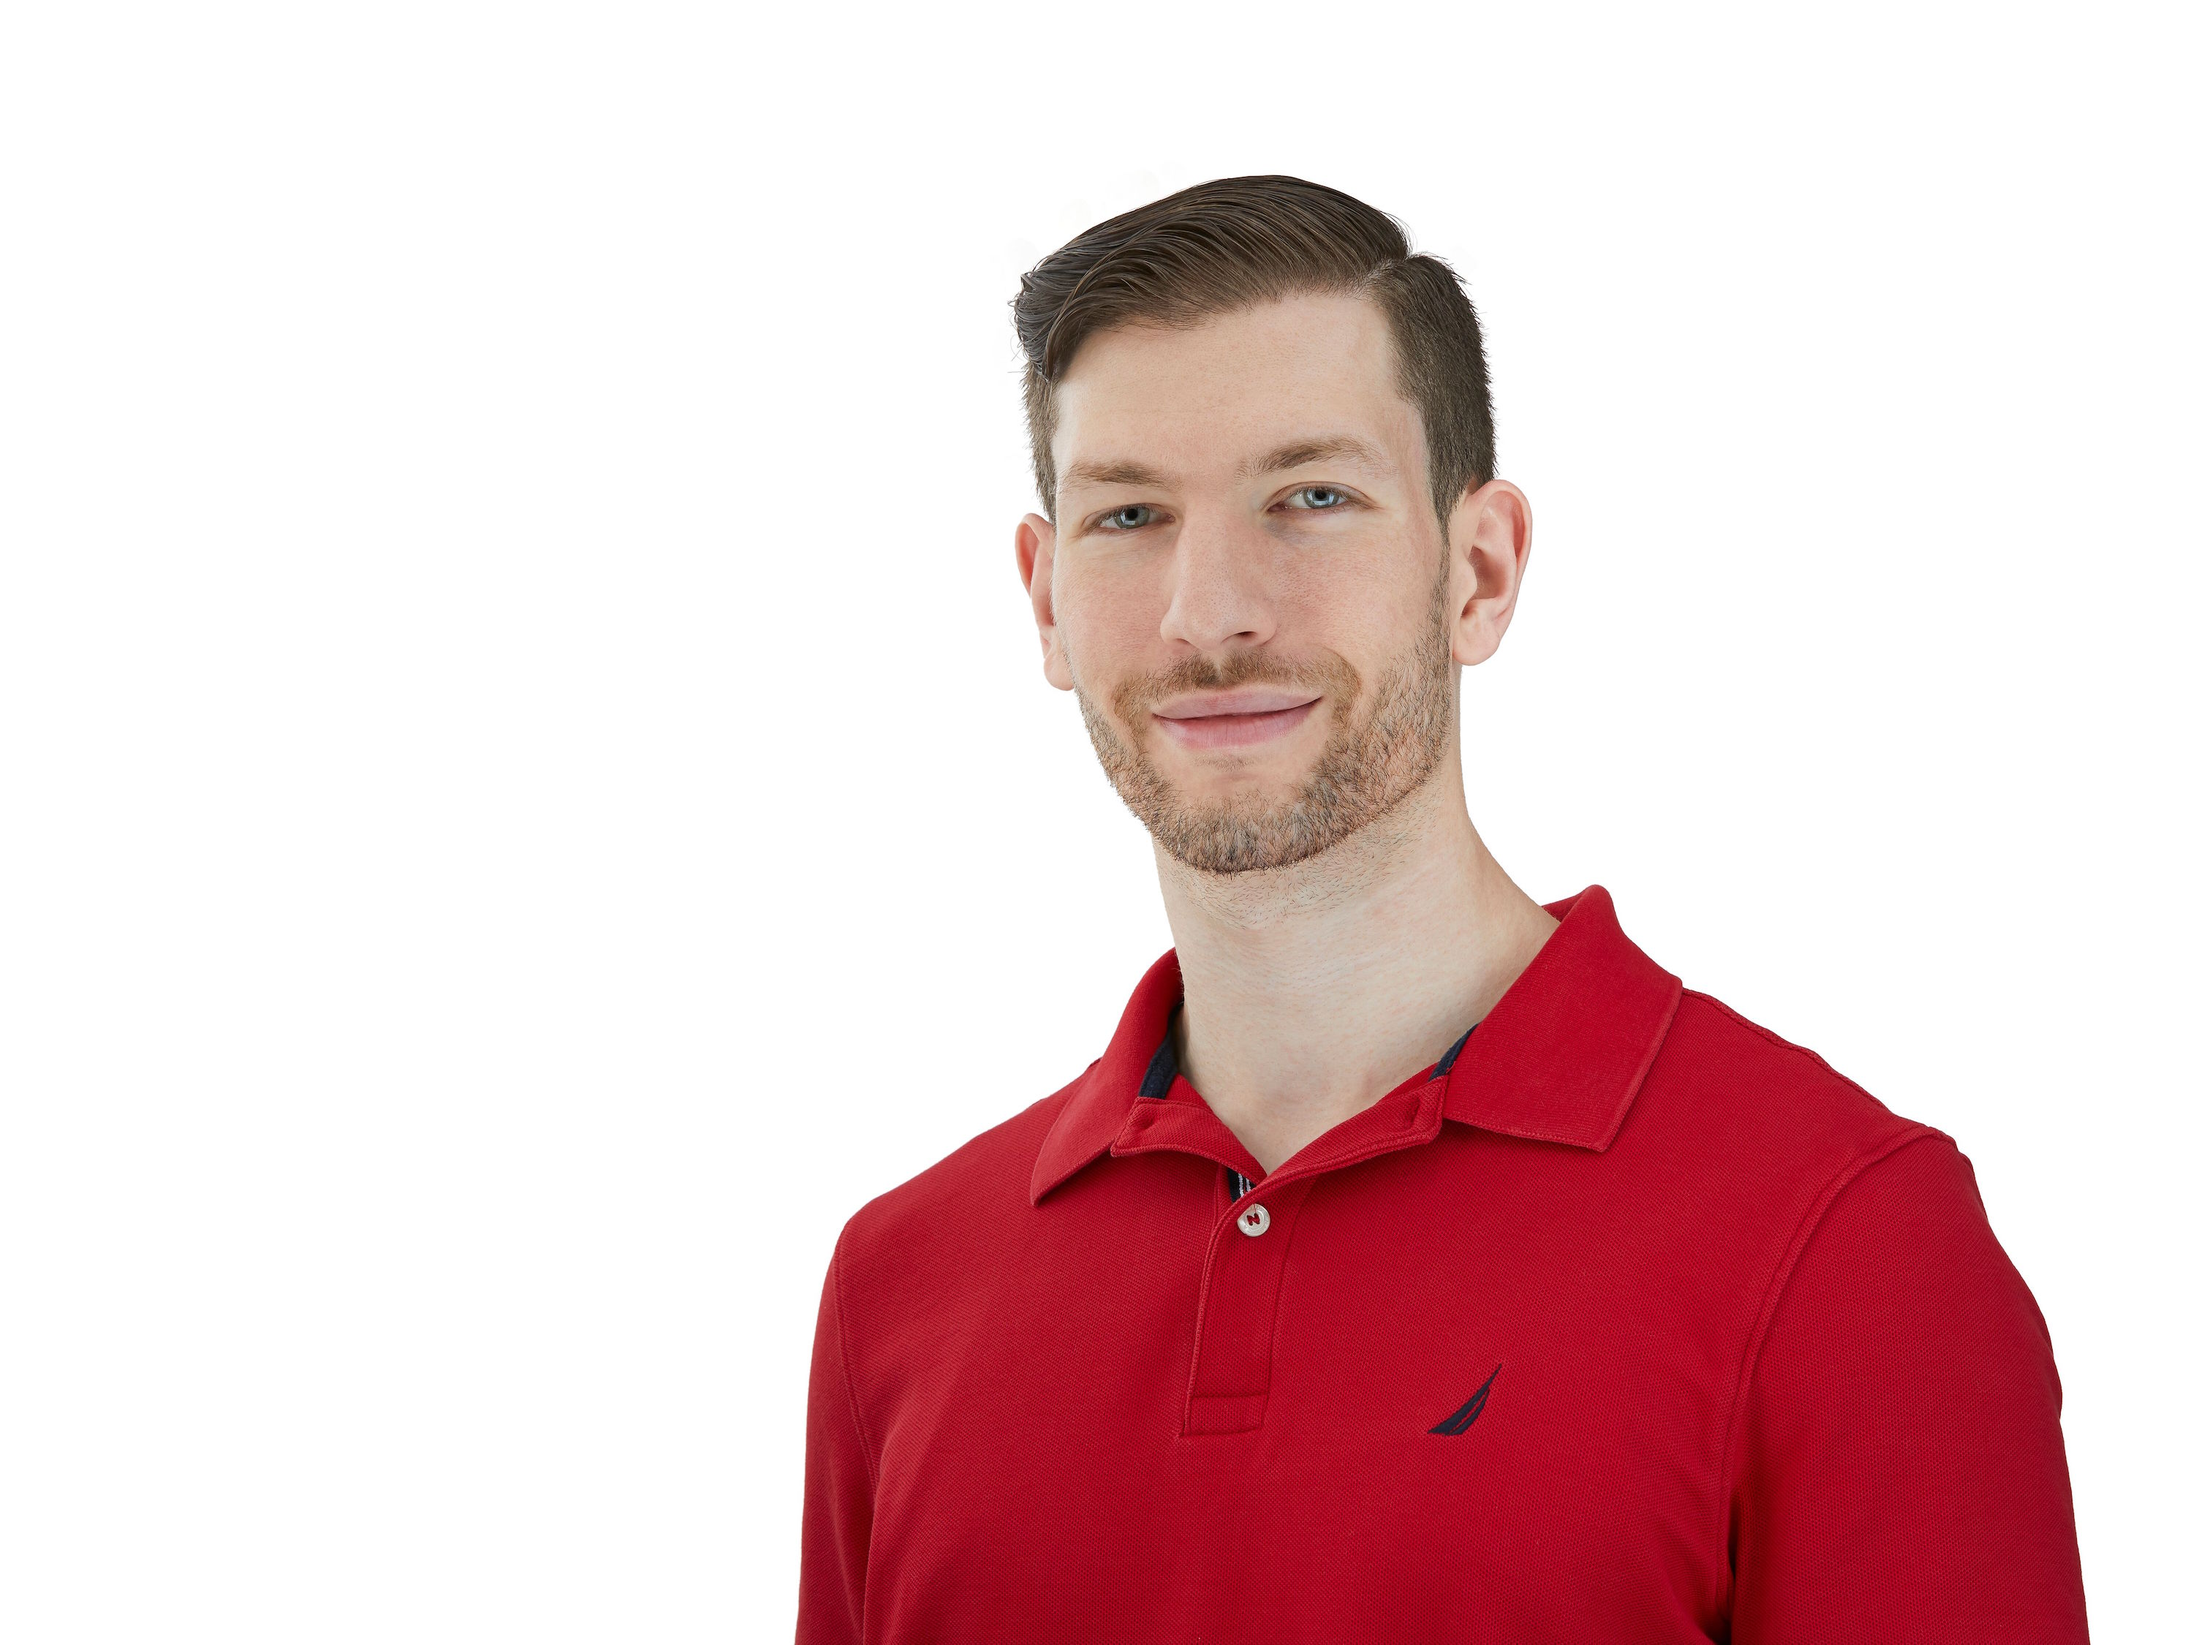
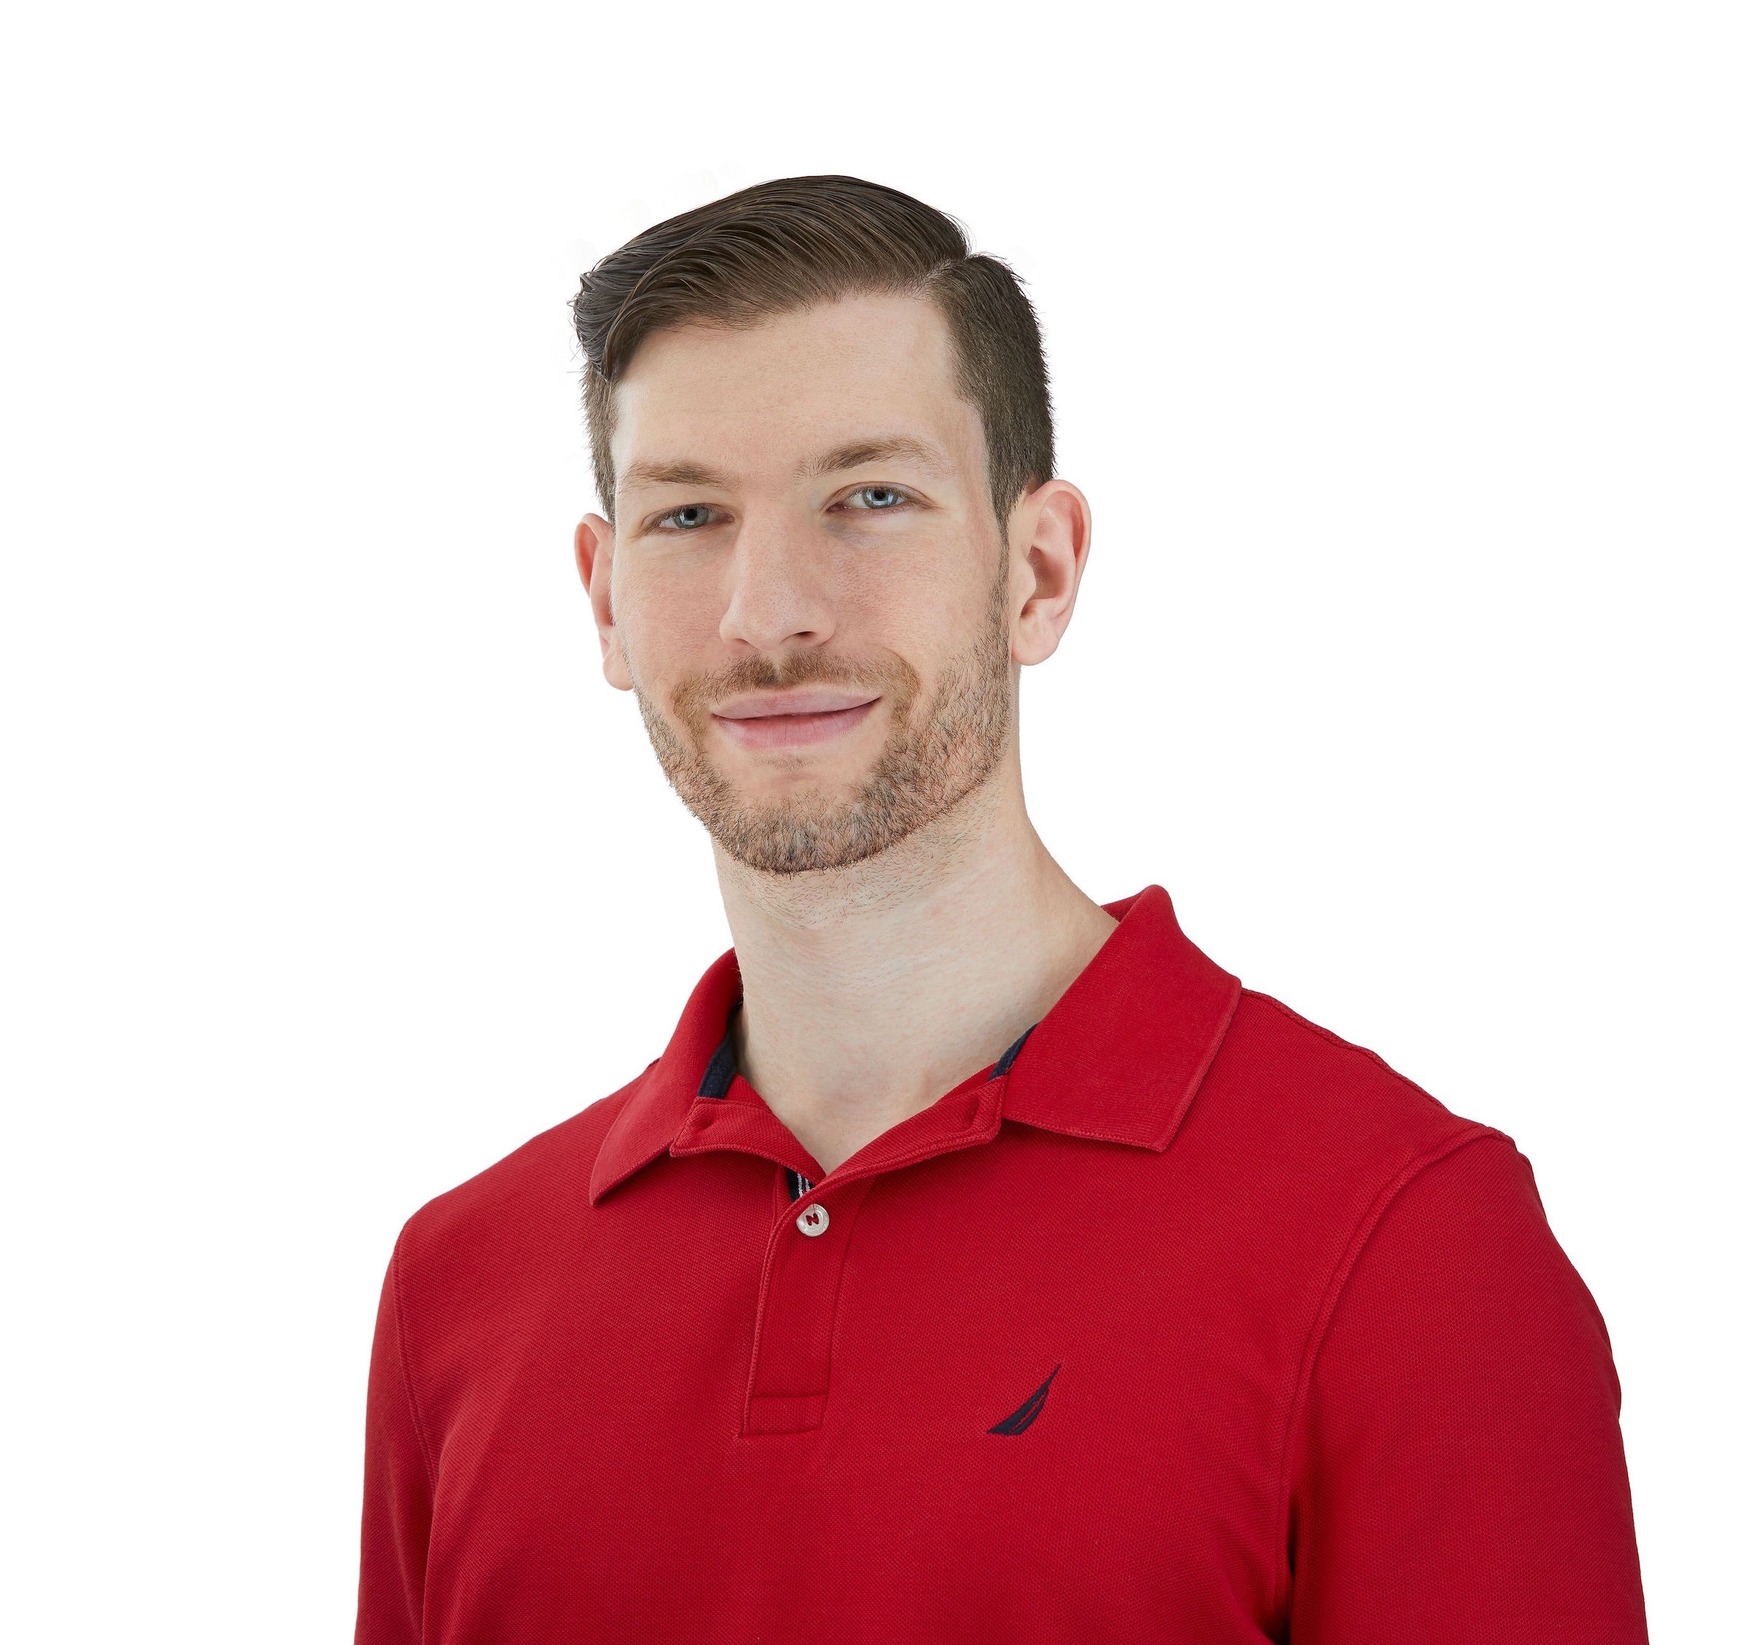
add new headshot

Changed region(s): [[0.1852, 0.0933, 0.957, 1.0]]

diff --git a/src/components/Sidebar/Author/Author.js b/src/components/Sidebar/Author/Author.js
@@ -15,22 +15,25 @@ type Props = {
 const Author = ({ author, isIndex }: Props) => (
   <div className={styles['author']}>
     <Link to="/">
-      <img
-        src={withPrefix(author.photo)}
+      <div
         className={styles['author__photo']}
-        width="75"
-        height="75"
-        alt={author.name}
+        style={{
+          backgroundImage: `url(${withPrefix(author.photo)})`
+        }}
       />
     </Link>
 
-    { isIndex ? (
+    {isIndex ? (
       <h1 className={styles['author__title']}>
-        <Link className={styles['author__title-link']} to="/">{author.name}</Link>
+        <Link className={styles['author__title-link']} to="/">
+          {author.name}
+        </Link>
       </h1>
     ) : (
       <h2 className={styles['author__title']}>
-        <Link className={styles['author__title-link']} to="/">{author.name}</Link>
+        <Link className={styles['author__title-link']} to="/">
+          {author.name}
+        </Link>
       </h2>
     )}
     <p className={styles['author__subtitle']}>{author.bio}</p>

diff --git a/src/components/Sidebar/Author/Author.module.scss b/src/components/Sidebar/Author/Author.module.scss
@@ -3,34 +3,36 @@
 
 .author {
   &__photo {
-    display: inline-block;
-    margin-bottom: 0;
-    border-radius: 50%;
-    background-clip: padding-box
+    // display: inline-block;
+    // margin-bottom: 0;
+    // border-radius: 50%;
+    // background-clip: padding-box
+    background-size: cover;
+    width: 100px;
+    height: 100px;
+    border-radius: 100%;
+    border: 1px solid $color-base;
   }
 
   &__title {
     font-size: $typographic-base-font-size * 1.125;
     font-weight: 600;
     @include line-height(1.125);
-    @include margin(.5, 0, .5, 0);
+    @include margin(0.5, 0, 0.5, 0);
 
     &-link {
       color: $color-base;
 
       &:hover,
       &:focus {
-        color: $color-base
+        color: $color-base;
       }
-
     }
-
   }
 
   &__subtitle {
     color: $color-gray;
     @include line-height(1);
-    @include margin-bottom(1)
+    @include margin-bottom(1);
   }
-
 }

diff --git a/config.js b/config.js
@@ -25,7 +25,7 @@ module.exports = {
   ],
   author: {
     name: 'Yazeed Bzadough',
-    photo: '/me-2016.jpg',
+    photo: '/me-2019-main-side.jpeg',
     bio:
       'I create motivational and educational content for developers, hoping to inspire and teach with a deep understanding.',
     contacts: {

diff --git a/gatsby-config.js b/gatsby-config.js
@@ -175,7 +175,7 @@ module.exports = {
         background_color: '#FFF',
         theme_color: '#F7A046',
         display: 'standalone',
-        icon: 'static/me-2016.jpg'
+        icon: 'static/me-2019-main-side.jpeg'
       }
     },
     'gatsby-plugin-offline',
